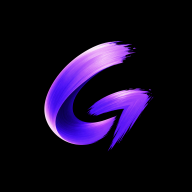
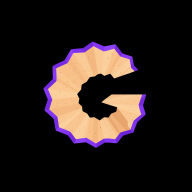
Попробовать G из карандашной стружки и обновить иконки (#722)

Changed region(s): [[0.2188, 0.1875, 0.8125, 0.7812]]

diff --git a/apps/web/scripts/bakeAppIcons.ts b/apps/web/scripts/bakeAppIcons.ts
@@ -34,7 +34,7 @@ const PLATE = '#000000'
 // The 316-unit crop renders at 632 px, enough for the largest PNG.
 const DENSITY = 144
 
-// Every nontransparent source pixel is inside radius 1.273 (half-side units).
+// Every nontransparent source pixel is inside radius 1.281 (half-side units).
 // At 62% it fits Android's circular safe zone of radius 0.8, including flecks.
 const MASKABLE_SCALE = 0.62
 
@@ -94,7 +94,7 @@ async function main(): Promise<void> {
 
   // An SVG favicon is an image document: external PNG references are blocked.
   // Embed a 192px copy instead of making every tab fetch the 1.2MB original.
-  const faviconMark = await sharp(mark).resize(192, 192).png().toBuffer()
+  const faviconMark = await sharp(mark).resize(192, 192, { fit: 'inside' }).png().toBuffer()
   const favicon = svg.toString().replace(mark.toString('base64'), faviconMark.toString('base64'))
   writeFileSync(join(OUT_DIR, 'favicon.svg'), favicon)
   console.log('  favicon.svg              standalone embedded artwork')
